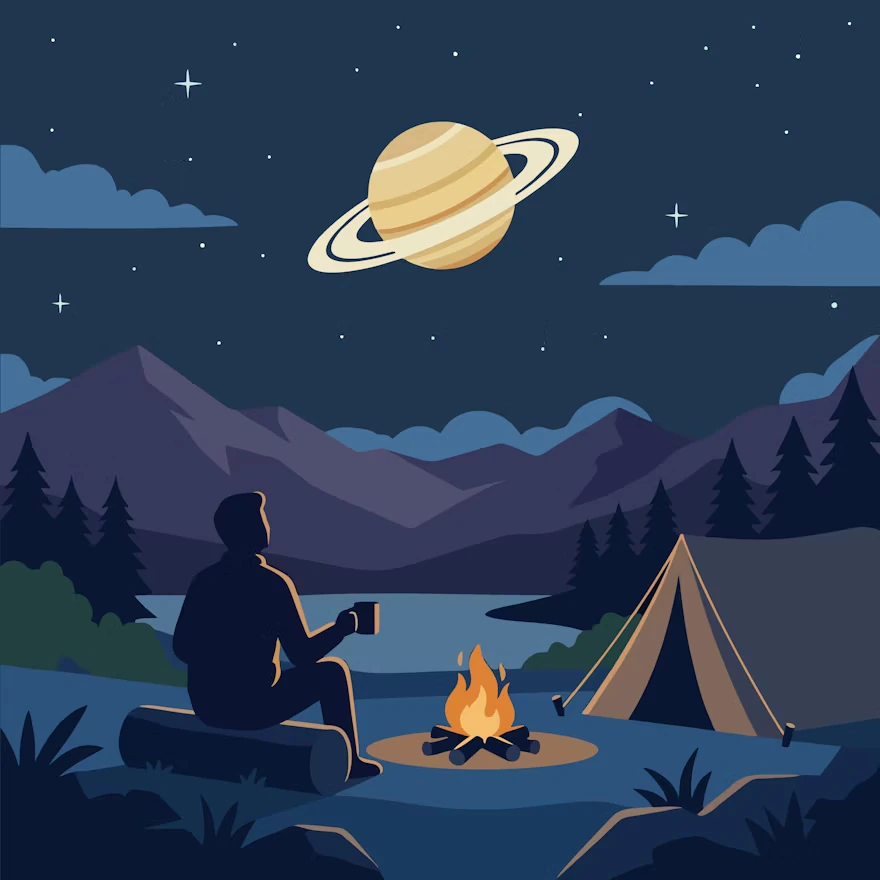
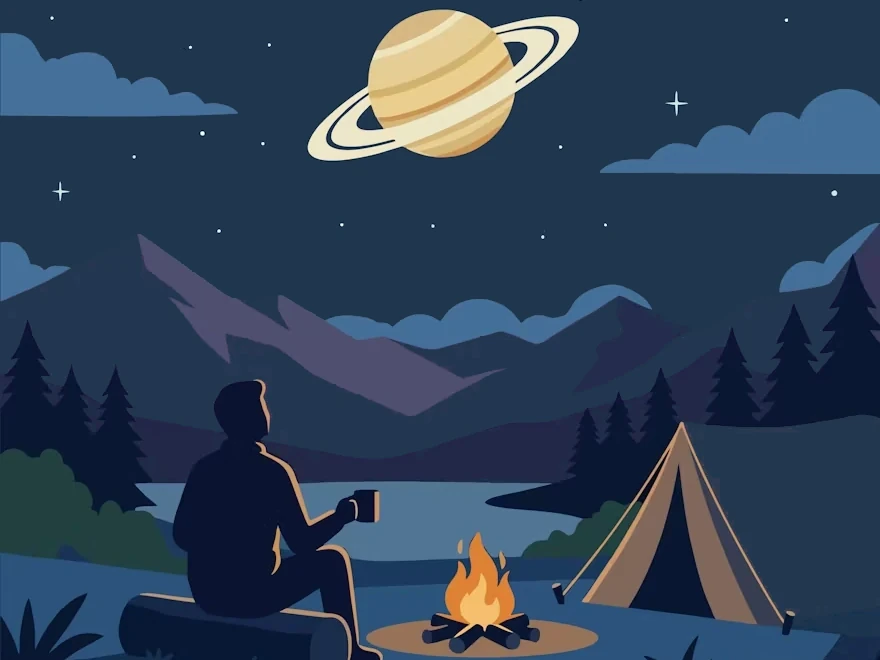
images width-height fixed

diff --git a/app/about/page.jsx b/app/about/page.jsx
@@ -32,8 +32,8 @@ export default function AboutPage() {
 	const image = {
 		src: imageAbout,
 		alt: "Φωτογραφία του Νίκου Χαχλιούτη.",
-		width: "1280",
-		height: "940",
+		width: "900",
+		height: "661",
 	};
 
 	return (

diff --git a/app/blog/en-etei-2026-wordpress-den-arkei/page.jsx b/app/blog/en-etei-2026-wordpress-den-arkei/page.jsx
@@ -31,8 +31,8 @@ export default function WordpressArticle() {
 	const image = {
 		src: imageNextjsWordpress,
 		alt: "Το Next.js κερδίζει το Wordpress σε αγώνα πυγμαχίας.",
-		width: "900",
-		height: "600",
+		width: "901",
+		height: "661",
 	};
 
 	return (

diff --git a/app/software-dev/page.jsx b/app/software-dev/page.jsx
@@ -36,8 +36,8 @@ export default function SoftwareDevPage() {
 	const image = {
 		src: imageSoftDev,
 		alt: "Image of application windows.",
-		width: "1280",
-		height: "994",
+		width: "900",
+		height: "699",
 	};
 
 	const features = [

diff --git a/app/web-dev/page.jsx b/app/web-dev/page.jsx
@@ -45,8 +45,8 @@ export default function WebDevPage() {
 	const image = {
 		src: imageWebDev,
 		alt: "Man with revenue chart going up.",
-		width: "1278",
-		height: "924",
+		width: "900",
+		height: "651",
 	};
 
 	const features = [

diff --git a/app/blog/page.jsx b/app/blog/page.jsx
@@ -1,7 +1,7 @@
 import Header from "@/components/header/Header";
 import styles from "./blog.module.css";
 import MainHero from "@/components/main-hero/MainHero";
-import imageBlog from "../../public/images/thoughts1.webp";
+import imageBlog from "../../public/images/thoughts.webp";
 import Footer from "@/components/footer/Footer";
 import Articles from "@/components/articles/Articles";
 